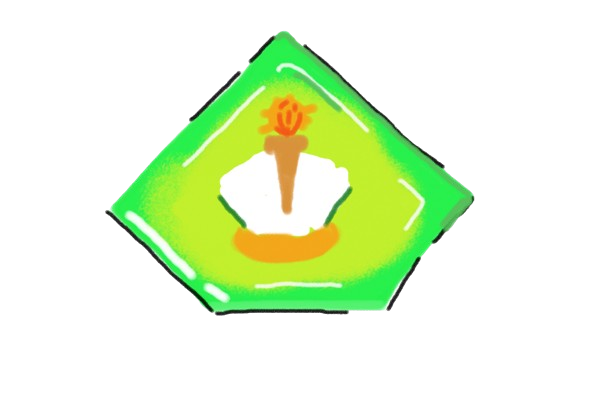
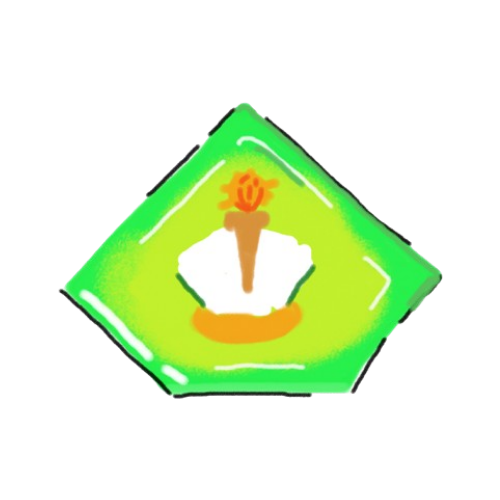
updated cvsu gem sprite

Changed region(s): [[0.12, 0.058, 0.9, 0.8116]]

diff --git a/wish.css b/wish.css
@@ -177,21 +177,19 @@ body {
 }
 
 .icon-cvsu1 { 
-    width: 25%;
-    aspect-ratio: 1.5/1;
+    width: 20%;
     opacity: 100%;
     position: relative;
 }
 .icon-cvsu2 { 
     width: 15%;
-    aspect-ratio: 1.5/1;
     opacity: 100%;
 }
 .image1 {
     display: flex;
     align-items: center;
     position: absolute;
-    left: 0%;
+    left: 3%;
 }
 
 .icons1 { 
@@ -409,7 +407,6 @@ body {
 
 .icons-3-exchange { 
    height: 80%;
-   width: 40%;
 }
 
 #min, #max { 

diff --git a/payment.css b/payment.css
@@ -29,8 +29,7 @@ body {
 }
 
 .icon-cvsu1 { 
-    width: 25%;
-    aspect-ratio: 1.5/1;
+    width: 20%;
     opacity: 100%;
     position: relative;
 }
@@ -39,7 +38,7 @@ body {
     display: flex;
     align-items: center;
     position: absolute;
-    left: 0%;
+    left: 3%;
 }
 
 .icons1 { 

diff --git a/homepage.html b/homepage.html
@@ -134,7 +134,7 @@
   <div id="resources">
     <div class="ba-currency-bar gem-bar" title="Pyroxene">
       <div class="ba-icon">
-        <img src="Assets/cvsu-icon.png" alt="" style="position: relative; top: 4%;">
+        <img src="Assets/cvsu-icon.png" alt="">
       </div>
       <div class="ba-num" id="gems">100</div>
       <div class="ba-add" id="ba-add">

diff --git a/wish.html b/wish.html
@@ -57,7 +57,7 @@
 
     <div class="currency-container">
         <div class="currency" id="cvsu-coins">
-            <div class="image1"><img src="Assets/cvsu-icon.png" alt="cvsu-icon" class="icon-cvsu1"></div>
+            <div class="image1"><img src="Assets/cvsu-icon.png" alt="cvsu-icon" class="icon-cvsu1" style="position: relative; top: 100%;"></div>
             <div class="amount" id="cvsu-coins-amount"></div>
             <button class="purchase"  id="purchase-cvsu">
                 <svg xmlns="http://www.w3.org/2000/svg" fill="none" viewBox="0 0 24 24" strokeWidth={1.5} stroke="currentColor" className="size-6">